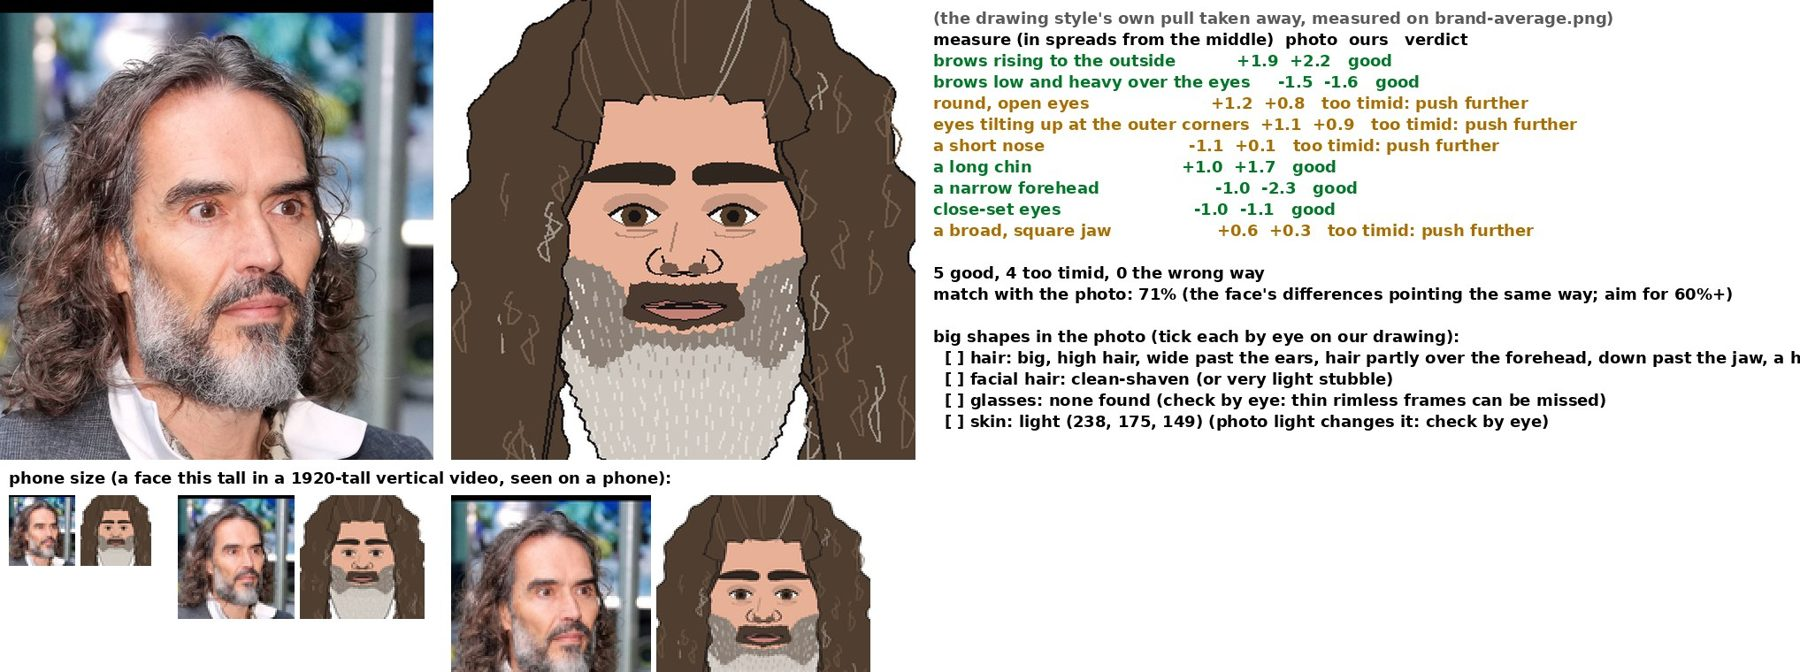
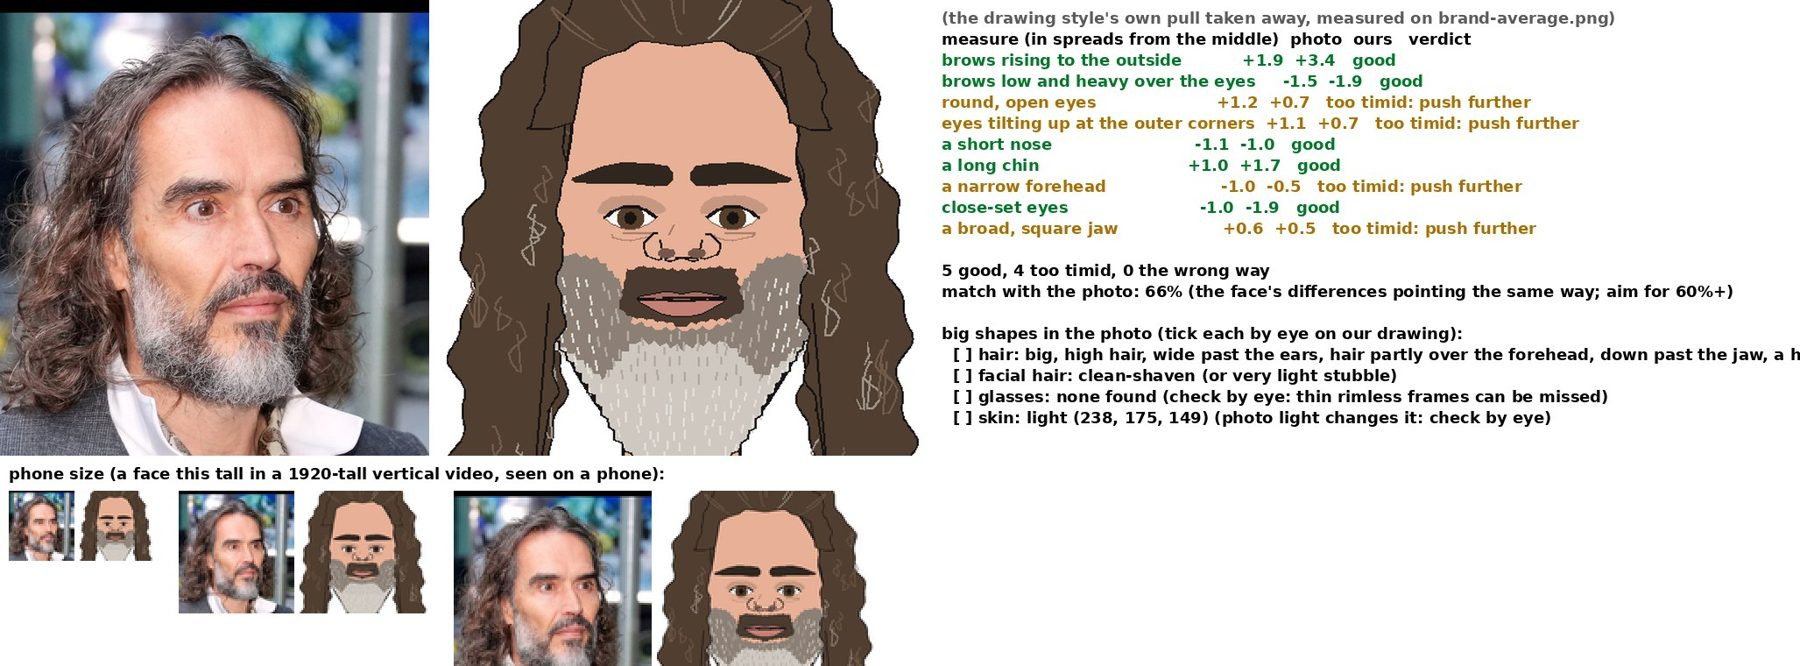
Blessed: cast note 1 (bigger head, smaller beard, higher hairline; Sam's photo b10 filed)
Claude-Session: https://claude.ai/code/session_01GznaAUAUMrMUF573rA6ziX

Changed region(s): [[0.0, 0.0, 0.9956, 1.0]]

diff --git a/source/blessed_cast.py b/source/blessed_cast.py
@@ -63,7 +63,7 @@ _BM, _BA = _card['measures'], _card['average']
 P4.MEASURED['brand'] = {k: P4.AVG[k] + _BM[k] - _BA[k] for k in P4.AVG}
 P4.PUSH['brand'] = 1.6
 P4.TUNE['brand'] = dict(eyes_apart=2.0, nose_wide=2.0, brow_slope=3.0, brow_high=3.0, eye_tilt=8.0, chin_long=22.0,
-                        forehead_wide=10.0, eye_open=3.0, jaw_wide=5.0, nose_long=3.0)   # 11 Nov, likeness check rounds
+                        forehead_wide=4.0, eye_open=3.0, jaw_wide=25.0, nose_long=5.0)   # 11 Nov, likeness check rounds
 
 # ---------------------------------------------------------------------------------------------- moods
 # brow: up (+); frown (+) pulls the inner ends down, (-) lifts them (worry); lid: upper lid down; mouth: his shapes
@@ -92,10 +92,10 @@ def brand_beard(p, f, L, skin, seed=91):
     fw, jw, ny, l0, l13, l17, mw, nw = L['fw'], L['jw'], L['nose_y'], L['lip0'], L['lip13'], L['lip17'], L['mw'], L['nw']
     wrap = getattr(f, 'wrap', None)
     nb = [(wrap(0.44, -95), 0.44), (wrap(0.62, -98), 0.62), (wrap(0.83, -96), 0.83)] if wrap else \
-        [(-fw * 0.5 - 0.006, 0.44), (-fw * 0.5 - 0.006, 0.62), (-jw * 0.5 - 0.024, 0.84)]
-    bottom = nb + [(-jw * 0.42, 1.03), (-0.16, 1.15), (0.0, 1.19), (0.16, 1.15), (jw * 0.42, 1.03), (jw * 0.5 + 0.024, 0.84),
-                   (fw * 0.5 + 0.006, 0.62), (fw * 0.5 + 0.006, 0.44)]
-    cheek = [(fw * 0.5 - 0.02, 0.44), (fw * 0.4, ny - 0.04), (fw * 0.3, ny - 0.01), (mw * 0.7, l0 - 0.02)]
+        [(-fw * 0.5 - 0.004, 0.44), (-fw * 0.5 - 0.004, 0.62), (-jw * 0.46, 0.84)]
+    bottom = nb + [(-jw * 0.32, 0.98), (-0.12, 1.04), (0.0, 1.06), (0.12, 1.04), (jw * 0.32, 0.98), (jw * 0.46, 0.84),
+                   (fw * 0.5 + 0.004, 0.62), (fw * 0.5 + 0.004, 0.44)]
+    cheek = [(fw * 0.5 - 0.015, 0.47), (fw * 0.41, ny - 0.01), (fw * 0.3, ny + 0.01), (mw * 0.7, l0 - 0.015)]
     corner = [(mw * 0.64, l13 + 0.01), (mw * 0.58, l17 + 0.02), (mw * 0.3, l17 + 0.04)]
     right = cheek + corner + [(0.0, l17 + 0.045)]
     left = [(-u, v) for u, v in right[::-1]]
@@ -120,7 +120,7 @@ def brand_beard(p, f, L, skin, seed=91):
     must = f.pts(top + AV.tufts(down, 0.008, 0.014, out=-1.0, seed=seed + 4))
     p.poly(must, BD_MOUST, None)
     # the grain: short light strokes falling down and in over the grey parts (none in the dark horseshoe)
-    for r, gv in enumerate(np.arange(0.5, 1.12, 0.04)):
+    for r, gv in enumerate(np.arange(0.5, 1.06, 0.04)):
         for gu in np.arange(-fw * 0.5 - (0.12 if wrap else 0.0) + (0.02 if r % 2 else 0.0), fw * 0.5, 0.04):
             u, v = gu + rng.uniform(-0.014, 0.014), gv + rng.uniform(-0.014, 0.014)
             q = f(u, v)
@@ -187,7 +187,7 @@ def brand_hair(L, knot=False, seed=3):
     locks a wavy lock over each cheek's edge (hiding the ears). Topknot (b08): pulled back tight; no mass or locks."""
     fw, fhw = L['fw'], L['fhw']
     c = fhw * 0.5
-    hl = -0.02                                                   # a high hairline
+    hl = -0.17                                                   # a high hairline (Sam's photo b10: a tall forehead)
     if knot:
         e = fw * 0.5                             # pulled back flat over a round skull, out to the ears
         cap = [(-e - 0.01, 0.3), (-e - 0.03, 0.02), (-e + 0.04, -0.22), (-0.24, -0.38), (0.0, -0.42), (0.24, -0.38),
@@ -197,20 +197,20 @@ def brand_hair(L, knot=False, seed=3):
     e = fw * 0.5
 
     def side(sgn, sd):
-        outer = [(sgn * 0.02, -0.4), (sgn * (c + 0.04), -0.36), (sgn * (e + 0.2), -0.1), (sgn * (e + 0.3), 0.3),
-                 (sgn * (e + 0.34), 0.8), (sgn * (e + 0.33), 1.3), (sgn * (e + 0.28), 1.7)]
+        outer = [(sgn * 0.02, -0.4), (sgn * (c + 0.04), -0.36), (sgn * (e + 0.14), -0.1), (sgn * (e + 0.22), 0.3),
+                 (sgn * (e + 0.26), 0.8), (sgn * (e + 0.25), 1.2), (sgn * (e + 0.2), 1.5)]
         ends = []                                                # the ends: four locks of different lengths
-        for k, (du, dv) in enumerate(((0.28, 1.7), (0.22, 1.86), (0.16, 1.74), (0.1, 1.84), (0.04, 1.68))):
+        for k, (du, dv) in enumerate(((0.2, 1.5), (0.16, 1.62), (0.11, 1.53), (0.07, 1.6), (0.03, 1.48))):
             u = sgn * (e + du)
             ends += [(u, dv), (u - sgn * 0.03, dv - 0.08)] if k % 2 == 0 else [(u + sgn * 0.01, dv - 0.02), (u, dv)]
-        inner = [(sgn * (e + 0.02), 1.6), (sgn * (e - 0.02), 1.15), (sgn * (e - 0.05), 0.7)]
+        inner = [(sgn * (e + 0.01), 1.4), (sgn * (e - 0.02), 1.05), (sgn * (e - 0.05), 0.7)]
         return waves(outer, 0.03, 0.34, out=-sgn, seed=sd) + ends + waves(inner, 0.02, 0.3, out=sgn, seed=sd + 1)
     right, left = side(1, seed), side(-1, seed + 10)
     mass = left[::-1] + [(-0.05, 0.2), (0.05, 0.2)] + right
     cap = waves([(-c - 0.1, 0.06), (-c - 0.02, -0.26), (-0.22, -0.44), (0.0, -0.49), (0.22, -0.44), (c + 0.02, -0.26),
                  (c + 0.1, 0.06)], 0.012, 0.2, out=1.0, seed=seed + 4)
-    cap += [(c - 0.02, 0.1), (c * 0.86, -0.03), (c * 0.5, hl), (0.12, hl - 0.03), (0.0, hl - 0.015), (-0.12, hl - 0.03),
-            (-c * 0.5, hl), (-c * 0.86, -0.03), (-c + 0.02, 0.1)]
+    cap += [(c - 0.02, 0.04), (c * 0.86, -0.12), (c * 0.5, hl), (0.12, hl - 0.03), (0.0, hl - 0.015), (-0.12, hl - 0.03),
+            (-c * 0.5, hl), (-c * 0.86, -0.12), (-c + 0.02, 0.04)]
     locks = []
     for sgn in (-1, 1):                                          # a lock over the face's edge, temple to below the jaw
         inner = waves([(sgn * c, 0.04), (sgn * (e - 0.04), 0.3), (sgn * (e - 0.045), 0.62), (sgn * (e - 0.01), 0.9)],
@@ -244,11 +244,11 @@ def _texture(p, f, poly_uv, n, seed, length=0.2):
 def _top_strokes(p, f, L, knot):
     c = L['fhw'] * 0.5
     if knot:                                          # pulled back: a few lines sweeping back to the bun, low
-        for a, b in (((-0.14, -0.04), (-0.06, -0.38)), ((0.14, -0.04), (0.06, -0.38))):
+        for a, b in (((-0.14, -0.2), (-0.06, -0.38)), ((0.14, -0.2), (0.06, -0.38))):
             p.line(curve(f.pts([a, ((a[0] + b[0]) / 2 * 1.2, (a[1] + b[1]) / 2), b]), 3), BR_HAIR_L, 1.6)
         return
-    strokes = (((-0.08, -0.03), (-0.2, -0.34)), ((0.08, -0.03), (0.2, -0.34)), ((-0.24, 0.02), (-c - 0.02, -0.22)),
-               ((0.24, 0.02), (c + 0.02, -0.22)), ((0.0, -0.05), (0.0, -0.4)))
+    strokes = (((-0.08, -0.21), (-0.2, -0.4)), ((0.08, -0.21), (0.2, -0.4)), ((-0.22, -0.17), (-c - 0.04, -0.3)),
+               ((0.22, -0.17), (c + 0.04, -0.3)), ((0.0, -0.22), (0.0, -0.44)))
     for i, (a, b) in enumerate(strokes):
         mid = ((a[0] + b[0]) / 2 + (0.03 if i % 2 else -0.03), (a[1] + b[1]) / 2)
         p.line(curve(f.pts([a, mid, b]), 3), BR_GREY if i == 1 else BR_HAIR_L, 1.8)
@@ -346,7 +346,30 @@ def look_of(sp):
     return MOODS.get(sp.get('mood', 'neutral'), MOODS['neutral'])
 
 
+HEAD_K = 1.15        # Sam, 11 Nov (cast sheet): "a small-looking head": his face drawn 15% bigger, grown up from the chin
+
+
+class _Big:
+    """While drawing his head, the face height (patriots4's and turnhead's H) is HEAD_K times the house size."""
+    def __enter__(self):
+        self.old = (P4.H, TH.H)
+        P4.H = TH.H = 172.0 * HEAD_K
+
+    def __exit__(self, *a):
+        P4.H, TH.H = self.old
+
+
+def _lift(hy):
+    """The head's anchor moved up so the bigger face grows upwards: the chin drops only a little onto the neck."""
+    return hy - (HEAD_K - 1) * 172.0 * 0.85
+
+
 def brand_head(img, p, sp, t, hx, hy):
+    with _Big():
+        return _brand_head(img, p, sp, t, hx, _lift(hy))
+
+
+def _brand_head(img, p, sp, t, hx, hy):
     L = P4.layout(P4.target('brand', sp.get('average', False)))
     f = P4.Face(hx, hy, sp.get('three', 0.0), sp.get('turn', 0.0), sp.get('down', 0.0))
     skin, look = BR_SKIN, look_of(sp)
@@ -457,6 +480,17 @@ def _brand_turned_hair(img, p, f, L, sp):
         shades(p, f, L, lowered=sp['shades'] == 'lowered')
 
 
+_th_draw = TH.draw
+
+
+def _th_draw_big(img, p, sp, t, view, hx, hy):
+    if sp.get('who') != 'brand':
+        return _th_draw(img, p, sp, t, view, hx, hy)
+    with _Big():
+        return _th_draw(img, p, sp, t, view, hx, _lift(hy))
+
+
+TH.draw = _th_draw_big
 TH.register(TH.Person(
     'brand', lambda sp: P4.layout(P4.target('brand', sp.get('average', False))), -0.42, 0.4,
     lambda L: BRAND_PROFILE, BR_SKIN, BR_IRIS, BR_BROW, BR_LIP, _brand_mood, _brand_rest, _brand_turned_hair,
@@ -545,7 +579,7 @@ TC.HEADS.update(brand=brand_head, judge=judge_head)
 TC.TORSOS.update(brand=brand_torso, judge=judge_torso, officer=officer_torso)
 _hair_back = B.hair_back
 B.hair_back = hair_back
-V.LONG_HAIR['brand_long'] = 280          # his curls in the side and back views
+V.LONG_HAIR['brand_long'] = 230          # his curls in the side and back views
 
 # ---------------------------------------------------------------------------------------------- the people
 BRAND = dict(who='brand', name='Russell Brand', skin=BR_SKIN, hw=66, hh=96, head_dy=10, hair='brand_long',

diff --git a/notes/blessed.md b/notes/blessed.md
@@ -2,10 +2,10 @@
 
 ## Where things stand (the ONE handover)
 - **Rules that bite next:** 89 (fresh-eye critique once the film draws frames), 41 (arms end in hands), 74 (acting list before animatic 1).
-- **Done (11 Nov, build chat 2, Opus high):** the cast in `source/blessed_cast.py` (Vance pattern). Brand: measured face, beard, long curls, topknot, aviators (on / lowered), 10 moods, three looks (trial, stand/dock, prison), turned heads. Likeness check 71% on b01, 60% on b03 (pass). Judge (invented, wig front only), prison officer, newsreader. Two by-eye critique passes: fixed the judge's missing wig, the officer's lab-coat look, the topknot cone, the lowered shades, the turned hair's spikes and the strip across his face. Cast sheet, faces sheet, likeness sheet in `notes/sheets/blessed-*.jpg`, sent to Sam.
+- **Done (11 Nov, build chat 2, Opus high):** the cast in `source/blessed_cast.py` (Vance pattern). Brand: measured face, beard, long curls, topknot, aviators (on / lowered), 10 moods, three looks (trial, stand/dock, prison), turned heads. Likeness check 66% on b01 (pass) after Sam's note 1 (bigger head, smaller beard; b10 is now the usual reference). Judge (invented, wig front only), prison officer, newsreader. Two by-eye critique passes: fixed the judge's missing wig, the officer's lab-coat look, the topknot cone, the lowered shades, the turned hair's spikes and the strip across his face. Cast sheet, faces sheet, likeness sheet in `notes/sheets/blessed-*.jpg`, sent to Sam.
 - **Spent against the estimate:** plan ~1%; cast stage 2.41% of 4% planned (ledger: lands at 11.4%).
 - **Next:** on Sam's Y to the cast sheet: build chat 3 (Opus, high effort): the sets (court outside, courtroom x2, prison cell + phone, van, TV room, BBC-style studio, gates), then `source/blessed.py` from `satire_template.py`.
-- **Needs Sam:** Y/N on the cast sheet (questions in the message).
+- **Needs Sam:** Y/N on the re-sent cast sheet (note 1 fixed).
 - **Read:** `guides/job-packs.md` Build; this file; `source/blessed_cast.py` MAP only.
 - **Lost / Added:** Lost: prayer beads on his chest (read as dots; can go in his hand). Added: none.
 - **Open rule requests:** none.
@@ -102,7 +102,7 @@ Length: about 101 words at Sam's pace (3.3 a second) is about 31 s, plus montage
 ## Notes
 | # | shot | time | note | line | status |
 |---|------|------|------|------|--------|
-| 1 |      |      |      |      | open   |
+| 1 | cast sheet | - | "small-looking head, a double-sized chin/beard area"; use Sam's photo b10 as the usual reference | Brand | fixed 11 Nov: face drawn 15% bigger (HEAD_K), beard cut to just below the chin and tapered, hairline raised (tall forehead), hair slimmer and to just past the shoulders; likeness 66% on b01, 48% on b10 (three-quarter with sunglasses: the tool reads its forehead wide and jaw narrow, against b01) |
 
 Decisions made:
 - References fetched through the press sites' own image servers after Sam's network approval (11 Nov); Wikimedia's API rate-limited us once.

diff --git a/notes/ledger/blessed.md b/notes/ledger/blessed.md
@@ -10,6 +10,7 @@ Written by `source/ledger.py` (do not edit by hand; the record is the .json besi
 |---|---|---|---|
 | plan | 1 |  |  |
 | cast | 4 | 2026-11-11 | 2.41 |
+| cast (unplanned) | 0 | 2026-11-11 | 2.41 |
 | sets | 5 |  |  |
 | moves | 1.5 |  |  |
 | animatic1 | 2 |  |  |
